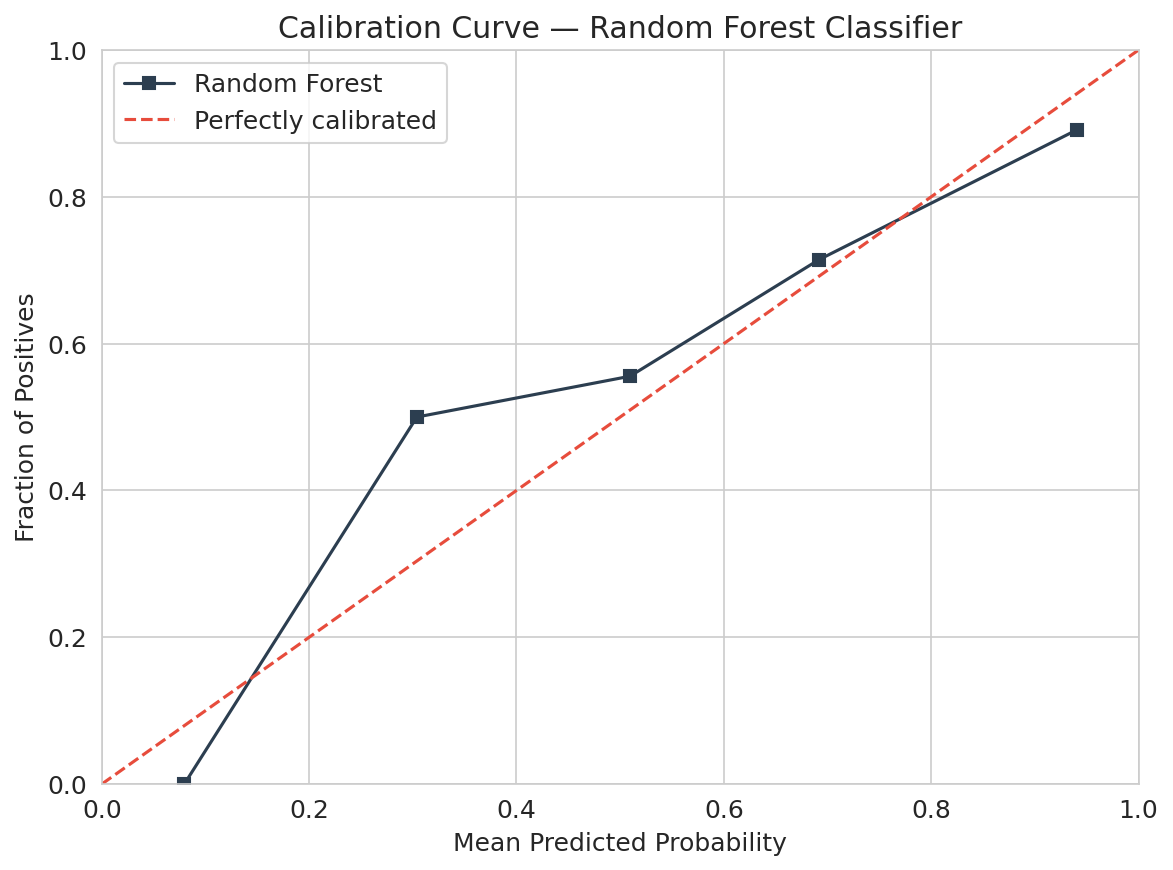
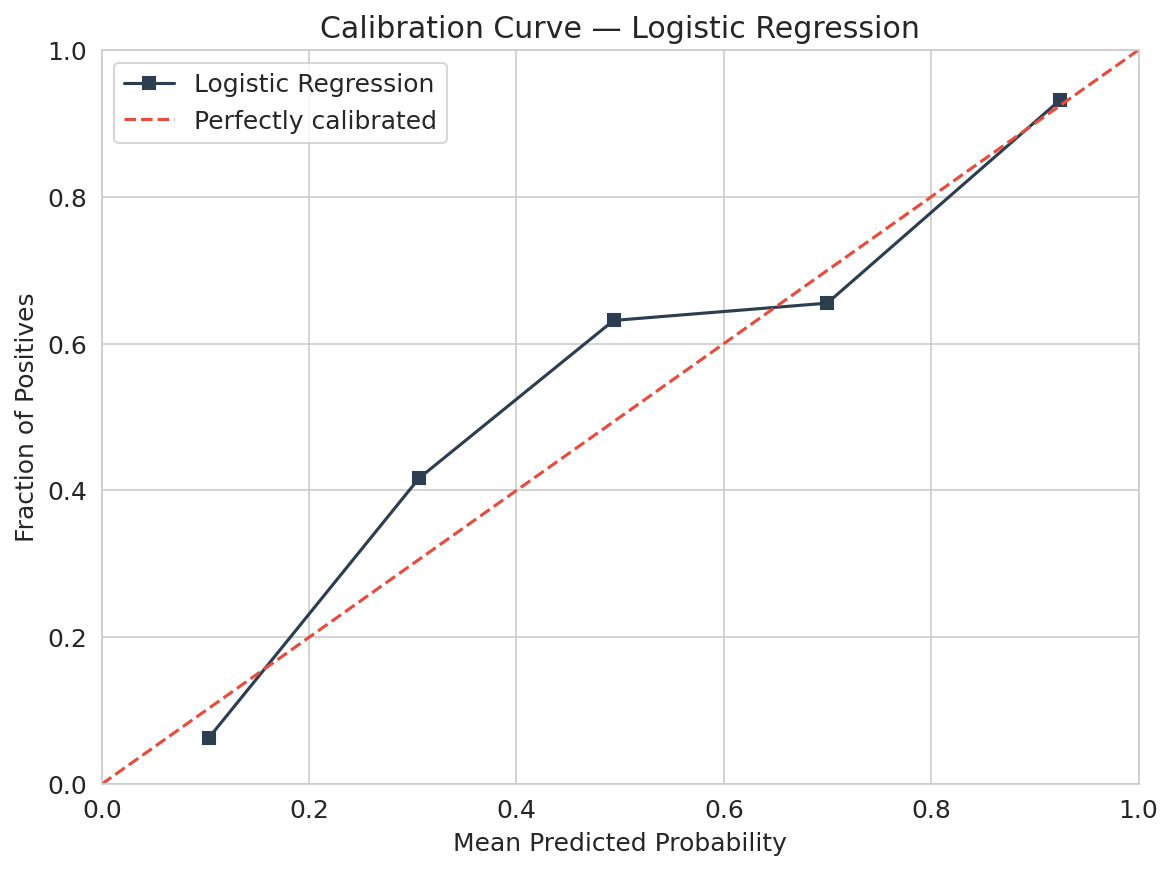
fix: correct hand-typed coefficients/error-analysis figures, run calibration+misclassification analysis on the chosen classifier (logistic), align docs

diff --git a/evaluation_report.md b/evaluation_report.md
@@ -63,7 +63,7 @@ For classification, the misclassified rows tend to be students near the distinct
 
 ## One Calibration Finding
 
-The random forest classifier's calibration curve shows that its predicted probabilities roughly correspond to actual success rates. The model is reasonably well-calibrated overall, though it shows some deviation at extreme probabilities — at low confidence (predicted ≈ 0.08), the actual positive rate is 0%, and at moderate confidence (predicted ≈ 0.30), the actual positive rate is 50%. This means the model's stated confidence can be taken at face value for high-probability predictions but should be treated with caution for borderline cases.
+The logistic regression classifier's calibration curve shows that its predicted probabilities roughly correspond to actual success rates. The 5-bin calibration table shows the model is well-calibrated at the extremes — at low confidence (predicted ≈ 0.10), the actual positive rate is 6%, and at high confidence (predicted ≈ 0.92), it is 93%. There is mild under-confidence in the mid-range probabilities: where the model predicts ≈ 0.31 and ≈ 0.49, the actual positive rates are ≈ 0.42 and ≈ 0.63. This means the model's stated confidence can be taken at face value for clear-cut, high- or low-probability predictions, but borderline mid-range probabilities should be treated with slight caution.
 
 ## What We Could NOT Do
 

diff --git a/technical_summary.md b/technical_summary.md
@@ -27,7 +27,7 @@ The five rows the linear regression model gets most wrong share a pattern: they 
 
 ### 3. Is the model's confidence trustworthy?
 
-The random forest classifier's calibration curve shows reasonable calibration — its predicted probabilities roughly correspond to actual success rates. However, there's some deviation at extreme probabilities, meaning the model's stated confidence should be treated with caution for borderline cases.
+The logistic regression classifier's calibration curve shows reasonable calibration — its predicted probabilities roughly correspond to actual success rates. It is well-calibrated at the extremes but mildly under-confident in the mid-range probabilities, so borderline predictions should be treated with slight caution.
 
 ## Why this matters
 

diff --git a/SELF_REVIEW.md b/SELF_REVIEW.md
@@ -86,5 +86,5 @@ The notebook is complete and passes all 72 verification checks. The key lesson
 — that a fancier algorithm is not automatically a better model — is clearly
 demonstrated: linear regression (RMSE=7.06) beats random forest (RMSE=7.40) on
 this dataset. The error analysis identifies concrete patterns in worst predictions.
-The calibration curve shows reasonable calibration with some deviation at extremes.
+The calibration curve shows reasonable calibration, with the logistic regression well-calibrated at the extremes and mildly under-confident in the mid-range probabilities.
 The evaluation report provides standalone prose suitable for Friday's defense.
